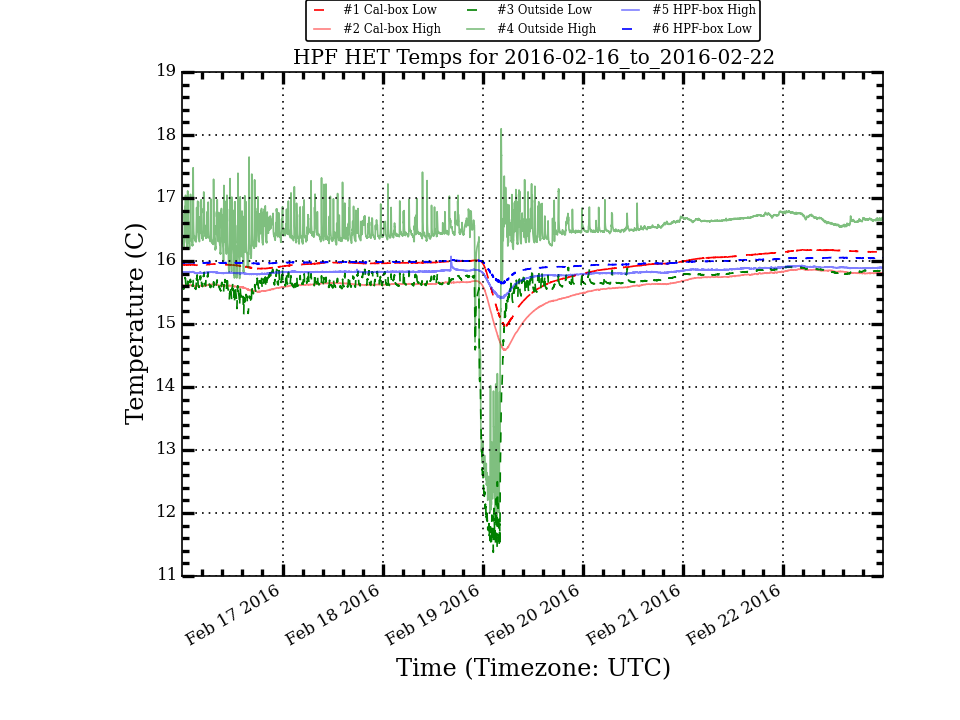
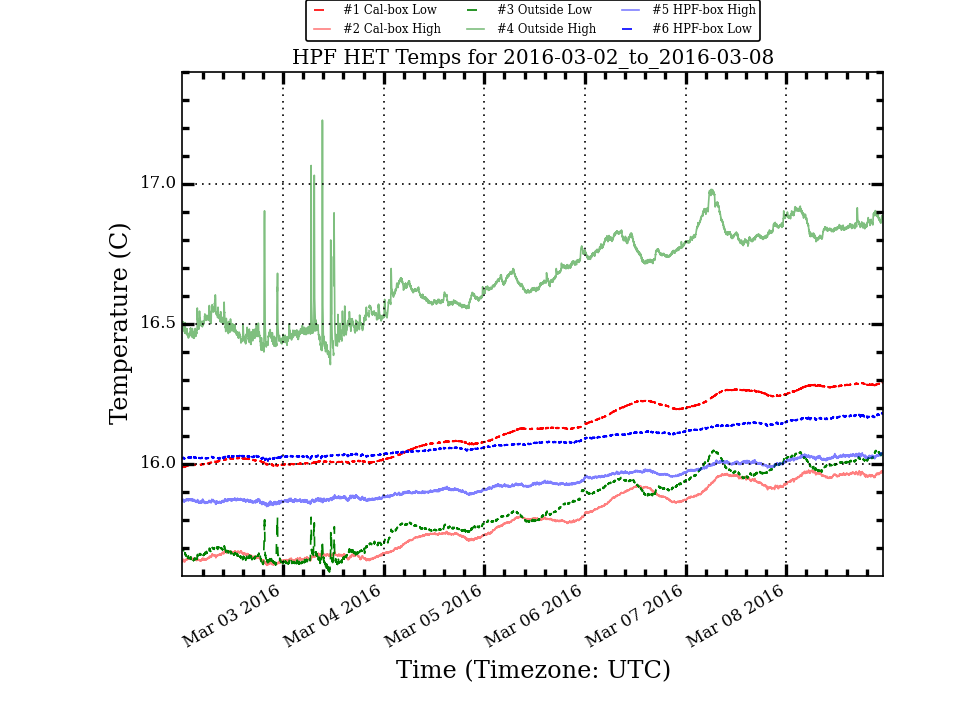
Update HPF Temp Plots

diff --git a/research/hpf_temps/plots/LakeShoreLogTotal_week_stats.html b/research/hpf_temps/plots/LakeShoreLogTotal_week_stats.html
@@ -10,56 +10,56 @@
  </TR>
  <TR>
   <TD>Cal_Low</TD>
-  <TD>15.931</TD>
-  <TD>0.217</TD>
-  <TD>15.964</TD>
-  <TD>16.177</TD>
-  <TD>14.958</TD>
-  <TD>1.219</TD>
+  <TD>16.129</TD>
+  <TD>0.104</TD>
+  <TD>16.126</TD>
+  <TD>16.292</TD>
+  <TD>15.988</TD>
+  <TD>0.304</TD>
  </TR>
  <TR>
   <TD>Cal_High</TD>
-  <TD>15.604</TD>
-  <TD>0.225</TD>
-  <TD>15.633</TD>
-  <TD>15.874</TD>
-  <TD>14.586</TD>
-  <TD>1.288</TD>
+  <TD>15.803</TD>
+  <TD>0.114</TD>
+  <TD>15.799</TD>
+  <TD>15.978</TD>
+  <TD>15.638</TD>
+  <TD>0.340</TD>
  </TR>
  <TR>
   <TD>Out_Low</TD>
-  <TD>15.586</TD>
-  <TD>0.641</TD>
-  <TD>15.689</TD>
-  <TD>15.906</TD>
-  <TD>11.376</TD>
-  <TD>4.530</TD>
+  <TD>15.836</TD>
+  <TD>0.130</TD>
+  <TD>15.818</TD>
+  <TD>16.051</TD>
+  <TD>15.614</TD>
+  <TD>0.437</TD>
  </TR>
  <TR>
   <TD>Out_High</TD>
-  <TD>16.430</TD>
-  <TD>0.664</TD>
-  <TD>16.536</TD>
-  <TD>18.099</TD>
-  <TD>11.861</TD>
-  <TD>6.238</TD>
+  <TD>16.671</TD>
+  <TD>0.152</TD>
+  <TD>16.659</TD>
+  <TD>17.228</TD>
+  <TD>16.355</TD>
+  <TD>0.873</TD>
  </TR>
  <TR>
   <TD>HPF_High</TD>
-  <TD>15.822</TD>
-  <TD>0.078</TD>
-  <TD>15.827</TD>
-  <TD>16.074</TD>
-  <TD>15.402</TD>
-  <TD>0.672</TD>
+  <TD>15.936</TD>
+  <TD>0.057</TD>
+  <TD>15.927</TD>
+  <TD>16.040</TD>
+  <TD>15.848</TD>
+  <TD>0.192</TD>
  </TR>
  <TR>
   <TD>HPF_Low</TD>
-  <TD>15.972</TD>
-  <TD>0.066</TD>
-  <TD>15.980</TD>
-  <TD>16.056</TD>
-  <TD>15.634</TD>
-  <TD>0.422</TD>
+  <TD>16.083</TD>
+  <TD>0.051</TD>
+  <TD>16.074</TD>
+  <TD>16.182</TD>
+  <TD>16.010</TD>
+  <TD>0.172</TD>
  </TR>
 </TABLE>

diff --git a/research/hpf_temps/plots/LakeShoreLogTotal_month_stats.html b/research/hpf_temps/plots/LakeShoreLogTotal_month_stats.html
@@ -10,56 +10,56 @@
  </TR>
  <TR>
   <TD>Cal_Low</TD>
-  <TD>15.911</TD>
-  <TD>0.112</TD>
-  <TD>15.922</TD>
-  <TD>16.177</TD>
+  <TD>15.981</TD>
+  <TD>0.145</TD>
+  <TD>15.954</TD>
+  <TD>16.292</TD>
   <TD>14.958</TD>
-  <TD>1.219</TD>
+  <TD>1.334</TD>
  </TR>
  <TR>
   <TD>Cal_High</TD>
-  <TD>15.595</TD>
-  <TD>0.115</TD>
-  <TD>15.604</TD>
-  <TD>15.874</TD>
+  <TD>15.653</TD>
+  <TD>0.151</TD>
+  <TD>15.629</TD>
+  <TD>15.978</TD>
   <TD>14.586</TD>
-  <TD>1.288</TD>
+  <TD>1.392</TD>
  </TR>
  <TR>
   <TD>Out_Low</TD>
-  <TD>15.621</TD>
-  <TD>0.330</TD>
-  <TD>15.646</TD>
-  <TD>16.014</TD>
+  <TD>15.668</TD>
+  <TD>0.343</TD>
+  <TD>15.677</TD>
+  <TD>16.051</TD>
   <TD>11.376</TD>
-  <TD>4.638</TD>
+  <TD>4.675</TD>
  </TR>
  <TR>
   <TD>Out_High</TD>
-  <TD>16.652</TD>
-  <TD>0.480</TD>
-  <TD>16.647</TD>
+  <TD>16.551</TD>
+  <TD>0.407</TD>
+  <TD>16.546</TD>
   <TD>18.099</TD>
   <TD>11.861</TD>
   <TD>6.238</TD>
  </TR>
  <TR>
   <TD>HPF_High</TD>
-  <TD>15.805</TD>
-  <TD>0.044</TD>
-  <TD>15.806</TD>
-  <TD>16.156</TD>
+  <TD>15.852</TD>
+  <TD>0.068</TD>
+  <TD>15.840</TD>
+  <TD>16.074</TD>
   <TD>15.402</TD>
-  <TD>0.754</TD>
+  <TD>0.672</TD>
  </TR>
  <TR>
   <TD>HPF_Low</TD>
-  <TD>15.947</TD>
-  <TD>0.040</TD>
-  <TD>15.949</TD>
-  <TD>16.080</TD>
+  <TD>16.002</TD>
+  <TD>0.063</TD>
+  <TD>15.999</TD>
+  <TD>16.182</TD>
   <TD>15.634</TD>
-  <TD>0.446</TD>
+  <TD>0.548</TD>
  </TR>
 </TABLE>
